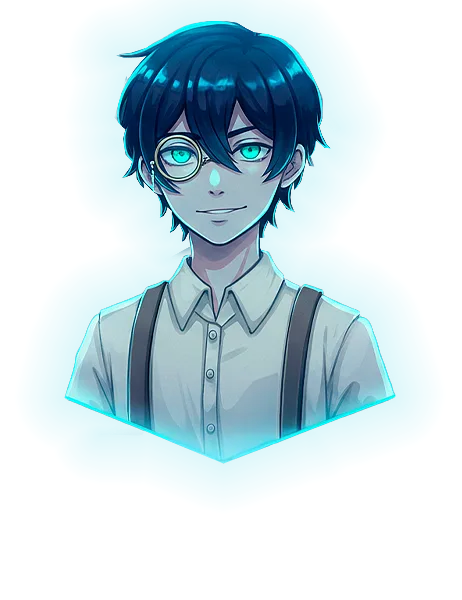
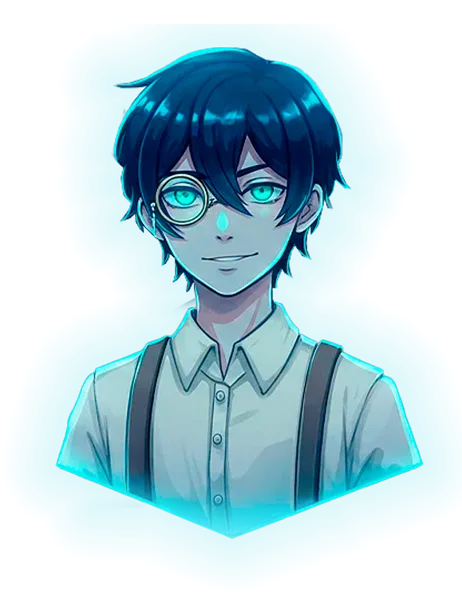
update release dates, new iskin quiz photo, replace hero video with image and add lazy loading

diff --git a/src/App.tsx b/src/App.tsx
@@ -10,7 +10,7 @@ import { FeaturesTabs } from './components/FeaturesTabs';
 import { Footer } from './components/Footer';
 import { Quiz } from './components/Quiz';
 import { QuizBanner } from './components/QuizBanner';
-import heroVideo from './assets/videos/hero-animation.webm';
+import heroBg from './assets/backgrounds/hero-bg.webp';
 import playerImg from './assets/images/player.webp';
 import iskinImg from './assets/images/iskin.webp';
 import apprenticeImg from './assets/images/apprentice.webp';
@@ -233,9 +233,7 @@ function App() {
 
       {/* HERO */}
       <section id="home" className="relative h-screen overflow-hidden">
-        <video autoPlay loop muted playsInline className="absolute top-0 left-0 w-full h-full object-contain md:object-cover z-0">
-          <source src={heroVideo} type="video/webm" />
-        </video>
+        <img src={heroBg} alt="Библиотека КрасноЦарства" className="absolute top-0 left-0 w-full h-full object-cover z-0" />
         <div className="absolute inset-0 bg-black/50 z-10" />
         <div className="relative z-20 h-full px-4 sm:px-8 md:px-16 lg:px-24">
           <div className="absolute top-[12%] sm:top-[30%] md:top-[35%] left-1/2 -translate-x-1/2 w-[92%] sm:w-auto sm:left-8 sm:translate-x-0 md:left-24 md:right-16">
@@ -483,7 +481,7 @@ function App() {
                 className="flex-shrink-0 w-full sm:w-1/2 lg:w-1/3 rounded-lg overflow-hidden border-2 border-transparent hover:border-gold-leaf transition-all duration-300"
               >
                 <div className="aspect-video">
-                  <img src={image} alt={`Скриншот галереи ${index + 1}`} className="w-full h-full object-cover" />
+                  <img src={image} alt={`Скриншот галереи ${index + 1}`} loading="lazy" decoding="async" className="w-full h-full object-cover" />
                 </div>
               </button>
             ))}
@@ -615,17 +613,17 @@ function App() {
                 <i className="fas fa-calendar-alt text-gold-leaf text-2xl"></i>
                 <h3 className="font-serif text-xl text-gold-leaf">Демо-релиз</h3>
               </div>
-              <p className="text-off-white/90 text-lg font-semibold">29 ноября 2025</p>
-              <p className="text-off-white/70 text-sm mt-2">Полноценная демо-версия игры</p>
+              <p className="text-off-white/90 text-lg font-semibold">18 декабря 2025</p>
+              <p className="text-off-white/70 text-sm mt-2">Релиз 1 главы с сюжетными правками и три дополнительных побочных квеста (Квартал Четырёх Дураков, Катакомбы и Станция дирижаблей)</p>
             </a>
 
             {/* Полный релиз */}
             <div className="bg-shadow-grey/20 border border-shadow-grey/50 rounded-xl p-6">
               <div className="flex items-center justify-center gap-3 mb-4">
                 <i className="fas fa-star text-gold-leaf text-2xl"></i>
-                <h3 className="font-serif text-xl text-gold-leaf">Основной релиз</h3>
+                <h3 className="font-serif text-xl text-gold-leaf">Релиз 1 части</h3>
               </div>
-              <p className="text-off-white/90 text-lg font-semibold">Лето 2026</p>
+              <p className="text-off-white/90 text-lg font-semibold">Вторая половина 2026</p>
               <p className="text-off-white/70 text-sm mt-2">Финальная версия с крутыми фичами</p>
             </div>
           </div>

diff --git a/src/components/CharacterCard.tsx b/src/components/CharacterCard.tsx
@@ -27,9 +27,11 @@ export function CharacterCard({ image, name, status, role, description }: Charac
           <div className="flex-grow flex items-center justify-center relative">
             {/* Декоративная тень под персонажем */}
             <div className="absolute bottom-4 h-8 w-3/4 bg-black/50 rounded-full blur-xl"></div>
-            <img 
-              src={image} 
-              alt={name} 
+            <img
+              src={image}
+              alt={name}
+              loading="lazy"
+              decoding="async"
               className="max-h-64 object-contain z-10"
             />
           </div>

diff --git a/src/components/Map.tsx b/src/components/Map.tsx
@@ -46,9 +46,11 @@ export function Map() {
       {/* This is the simple container for the map */}
       <div ref={ref} className="relative w-full rounded-lg overflow-hidden md:aspect-[1.77]">
         {/* The map is visible immediately, without animations */}
-        <img 
-          src={mapImage} 
-          alt="Карта КрасноЦарства" 
+        <img
+          src={mapImage}
+          alt="Карта КрасноЦарства"
+          loading="lazy"
+          decoding="async"
           className="w-full h-auto md:h-full md:object-cover object-contain"
         />
 

diff --git a/src/index.css b/src/index.css
@@ -5,10 +5,12 @@
 @font-face {
   font-family: 'Kereru';
   src: url('/src/assets/fonts/Kereru.otf') format('opentype');
+  font-display: swap;
 }
 @font-face {
   font-family: 'PFDinTextPro';
   src: url('/src/assets/fonts/PFDinTextPro-Regular.ttf') format('truetype');
+  font-display: swap;
 }
 
 /* === 2. АНИМАЦИИ === */
